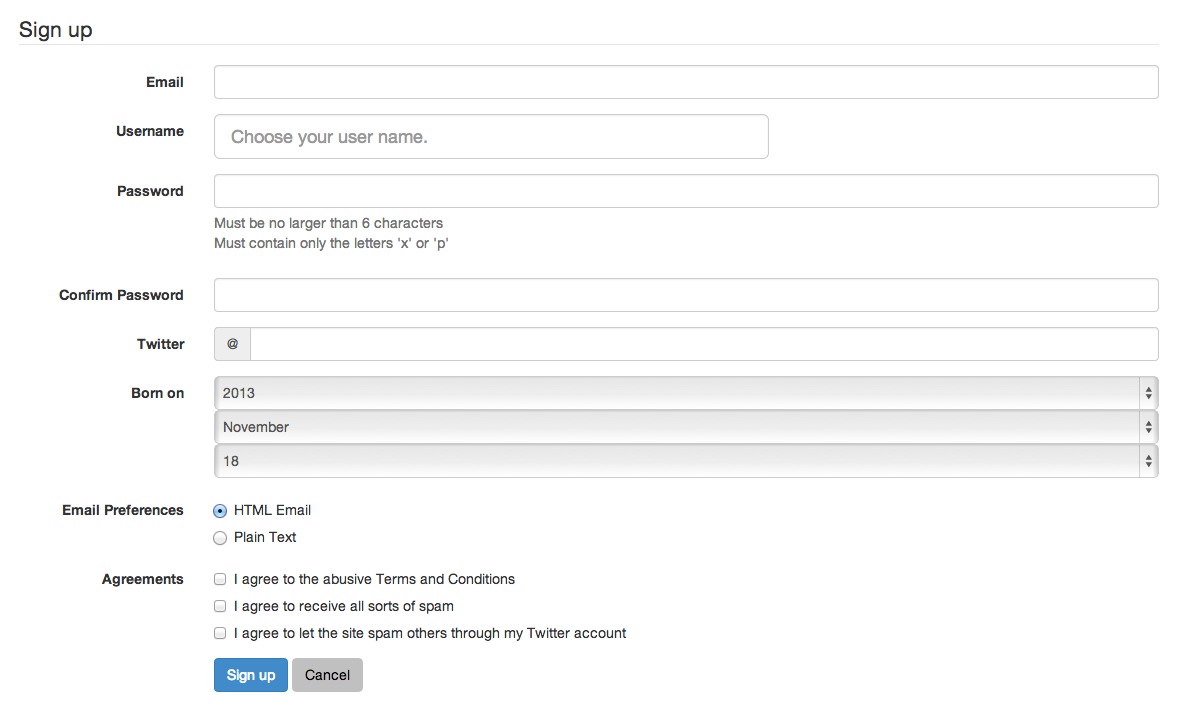
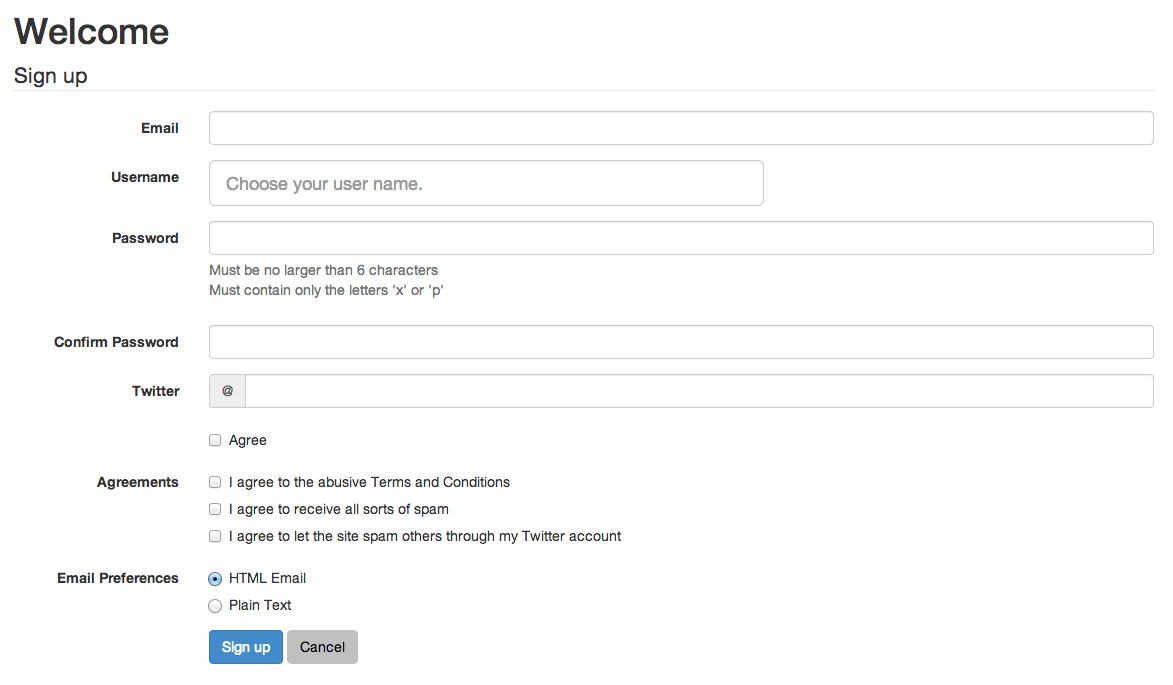
update readme. update screenshot. add documentation about checkboxes.

diff --git a/lib/twitter_bootstrap_form_for/form_builder.rb b/lib/twitter_bootstrap_form_for/form_builder.rb
@@ -431,58 +431,51 @@ class TwitterBootstrapFormFor::FormBuilder < ActionView::Helpers::FormBuilder
   # Examples: Check the readme for a complete example on how to create a
   # form with twitter_bootstrap_form_for.
   #
-  #   = f.check_box :agree,   'I agree to the abusive Terms and Conditions'
+  # To generate a single checkbox use
   #
-  #   <div class="form-group" id="user_email_input">
-  #     <label for="user_email">Email</label>
-  #     <input class="form-control" id="user_email" name="user[email]" type="text" />
+  #   = f.check_box :agree
+  #
+  #   <div class="checkbox" id="user_agree_input">
+  #     <label for="user_agree">
+  #       <input name="user[agree]" type="hidden" value="0">
+  #       <input id="user_agree" name="user[agree]" type="checkbox" value="1">
+  #       Agree
+  #     </label>
   #   </div>
   #
-  #   = user.email_field :email, 'Your email address', :placeholder => 'me@example.com', :class => 'input-lg', :div_class => 'col-md-6'
+  # To generate a group of checkboxes use the *toggles* method
+  # We also show how to set custom labels for checkboxes. Labels work the same
+  # as for the regular input fields.
   #
-  #   <div class="form-group" id="user_email_input">
-  #     <label for="user_email">Your email address</label>
-  #     <div class="col-md-6">
-  #       <input class="form-control input-lg" id="user_email" name="user[email]" placeholder="me@example.com" type="text" />
+  #   = f.toggles 'Agreements' do
+  #     = f.check_box :agree,   'I agree to the abusive Terms and Conditions'
+  #     = f.check_box :spam,    'I agree to receive all sorts of spam'
+  #     = f.check_box :spammer, 'I agree to let the site spam others through my Twitter account'
+  #
+  #   <div class="form-group">
+  #     <label>Agreements</label>
+  #     <div class="checkbox" id="user_agree_input">
+  #       <label for="user_agree">
+  #         <input name="user[agree]" type="hidden" value="0">
+  #         <input id="user_agree" name="user[agree]" type="checkbox" value="1">
+  #         I agree to the abusive Terms and Conditions
+  #       </label>
+  #     </div>
+  #     <div class="checkbox" id="user_spam_input">
+  #       <label for="user_spam">
+  #         <input name="user[spam]" type="hidden" value="0">
+  #         <input id="user_spam" name="user[spam]" type="checkbox" value="1">
+  #         I agree to receive all sorts of spam
+  #       </label>
+  #     </div>
+  #     <div class="checkbox" id="user_spammer_input">
+  #       <label for="user_spammer">
+  #         <input name="user[spammer]" type="hidden" value="0">
+  #         <input id="user_spammer" name="user[spammer]" type="checkbox" value="1">
+  #         I agree to let the site spam others through my Twitter account
+  #       </label>
   #     </div>
   #   </div>
-  #
-  # To create a help text:
-  #
-  #   = user.email_field :email do
-  #     %span.help-block We won't send no spam
-  #
-  #   <div class="form-group" id="user_email_input">
-  #     <label for="user_email">Email</label>
-  #     <input class="form-control" id="user_email" name="user[email]" type="text" />
-  #     <span class="help-block">We won't send no spam</span>
-  #   </div>
-  #
-  # To create a add on:
-  #
-  #   = user.email_field :email, :add_on => :prepend do
-  #     %span.input-group-addon @
-  #
-  #   <div class="form-group" id="user_email_input">
-  #     <label for="user_email">Email</label>
-  #     <div class="input-group">
-  #       <span class="input-group-addon">@</span>
-  #       <input class="form-control" id="user_email" name="user[email]" type="text" />
-  #     </div>
-  #   </div>
-  #
-  # To remove the label
-  #
-  #   = user.email_field :email, false
-  #
-  #   <div class="form-group" id="user_email_input">
-  #     <input class="form-control" id="user_email" name="user[email]" type="text" />
-  #   </div>
-  #
-  # It will automatically create a placeholder if you create no label (label==false).
-  # Except if you specify "placeholder: false" as a option. If you specify
-  # "placeholder: true" if will create a placeholder with the text from the label
-  # or use the (translated) attribute name if no label is specified.
   #
   TOGGLES.each do |toggle|
     define_method toggle do |attribute, *args|
